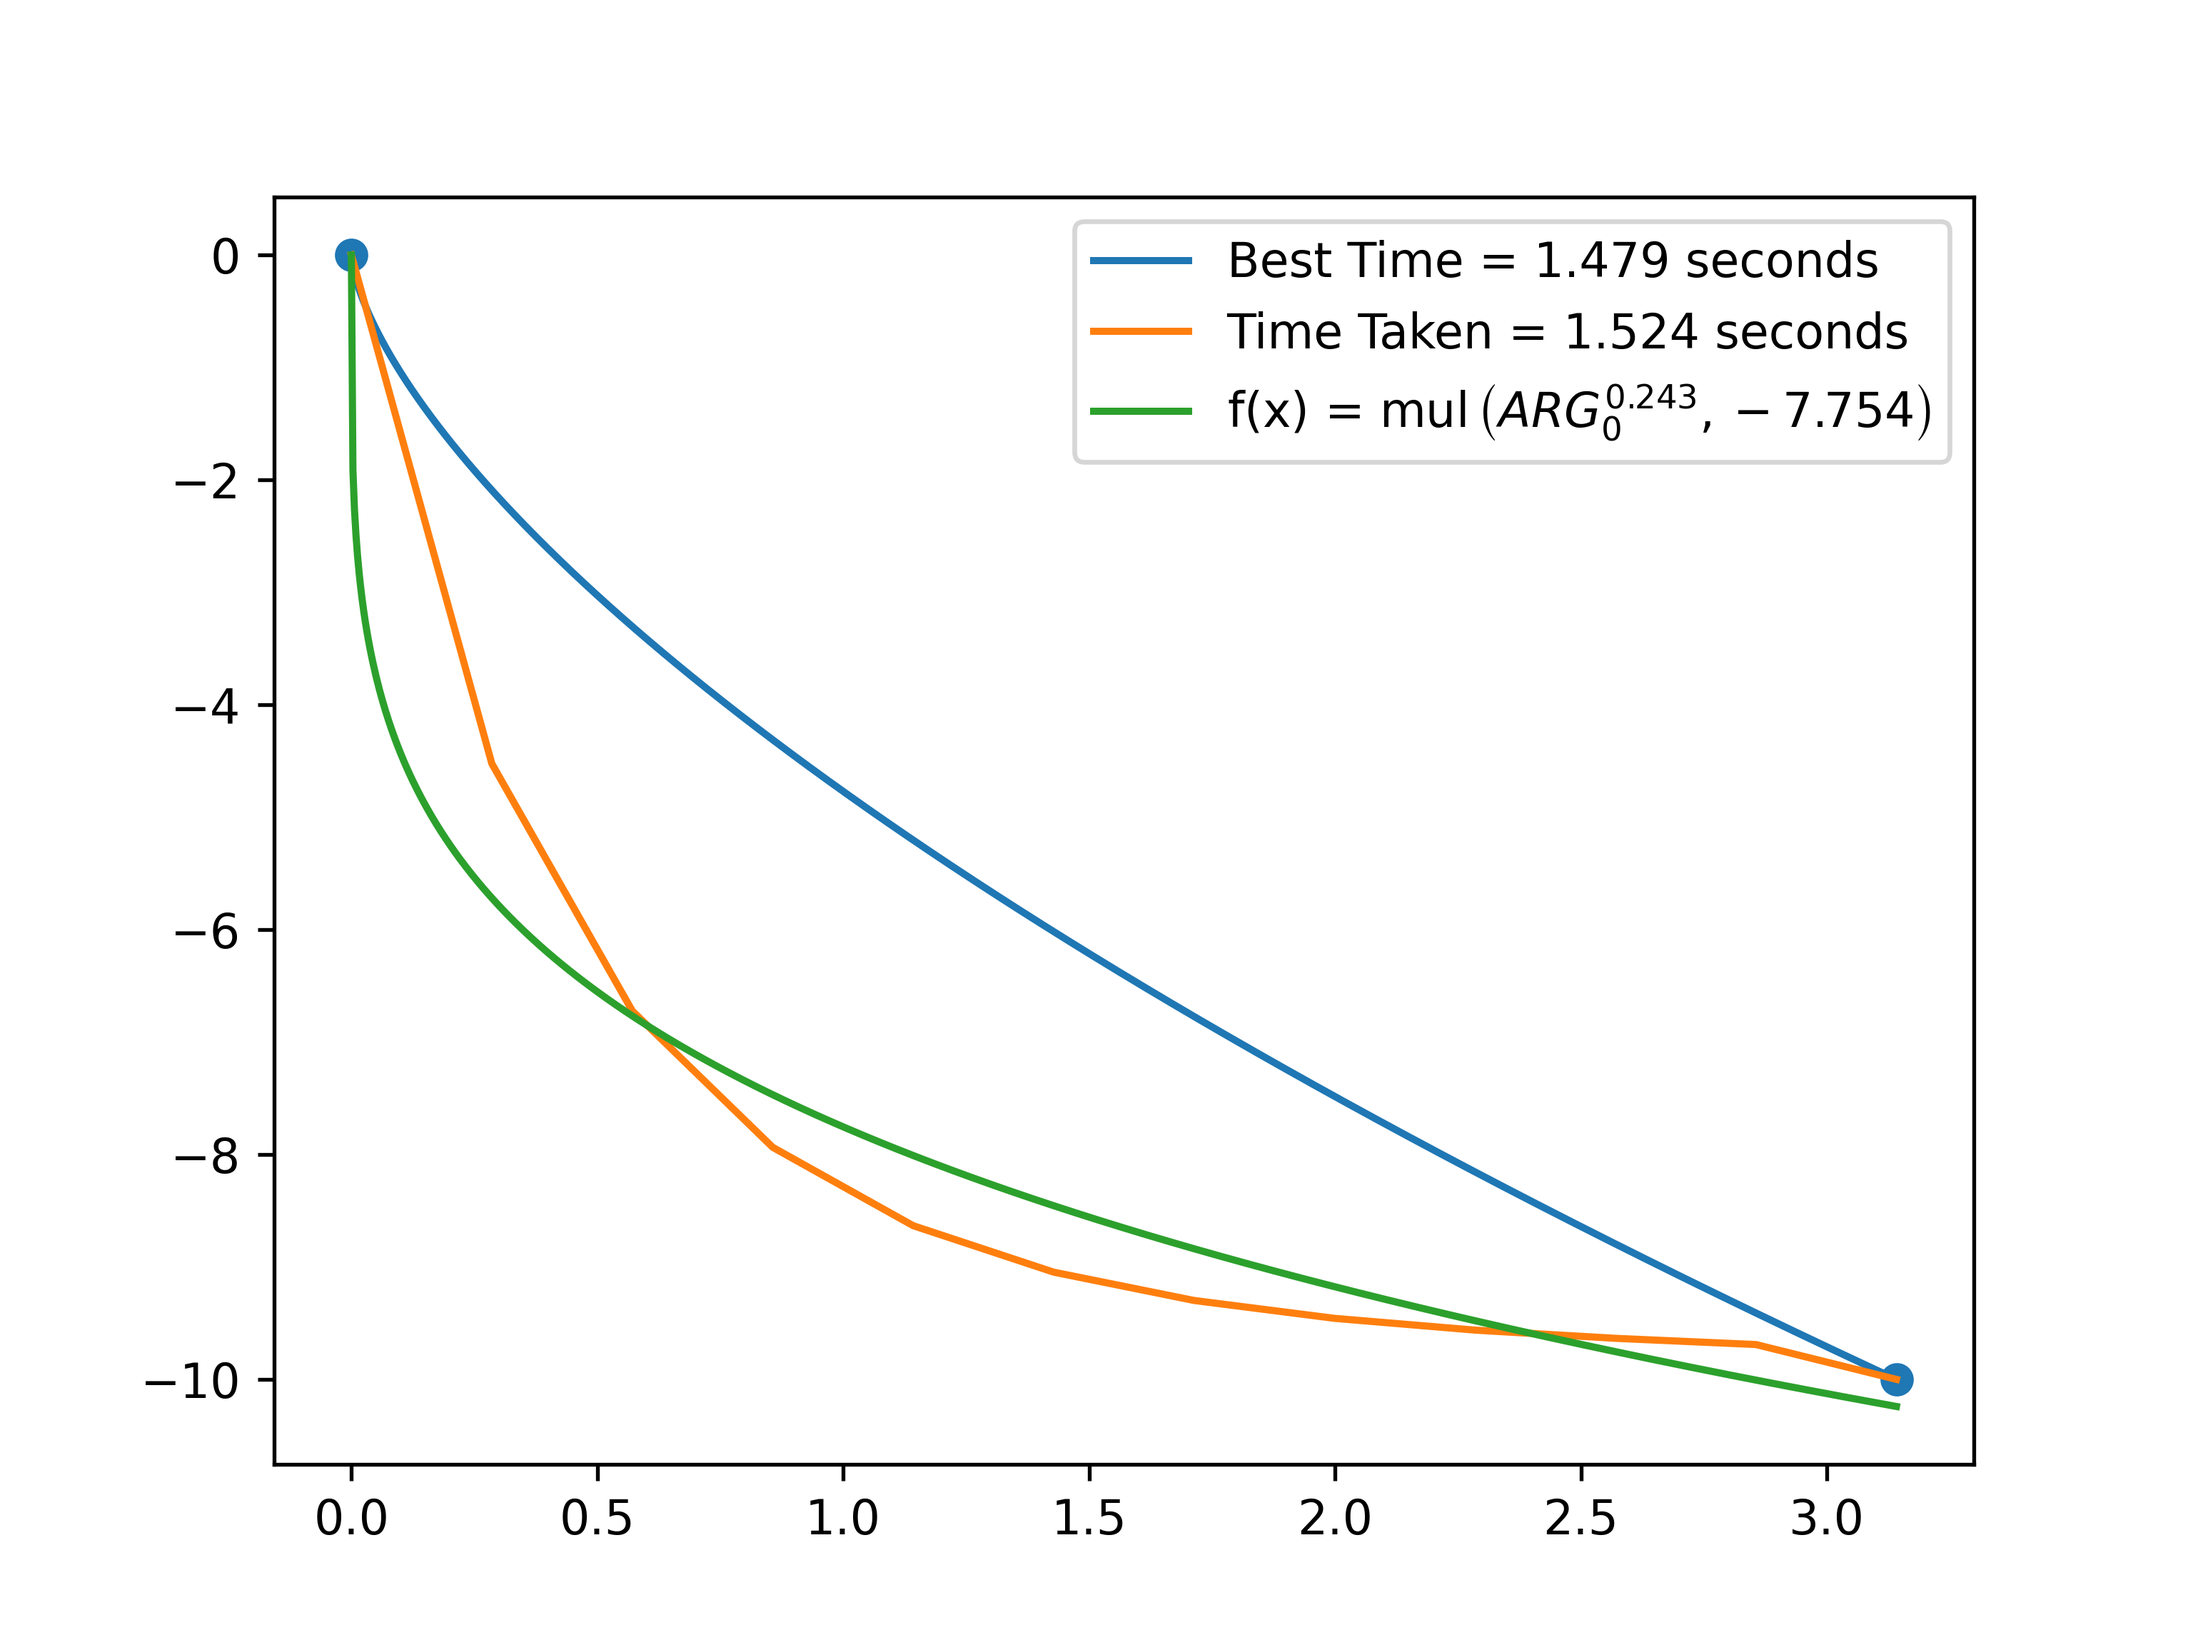
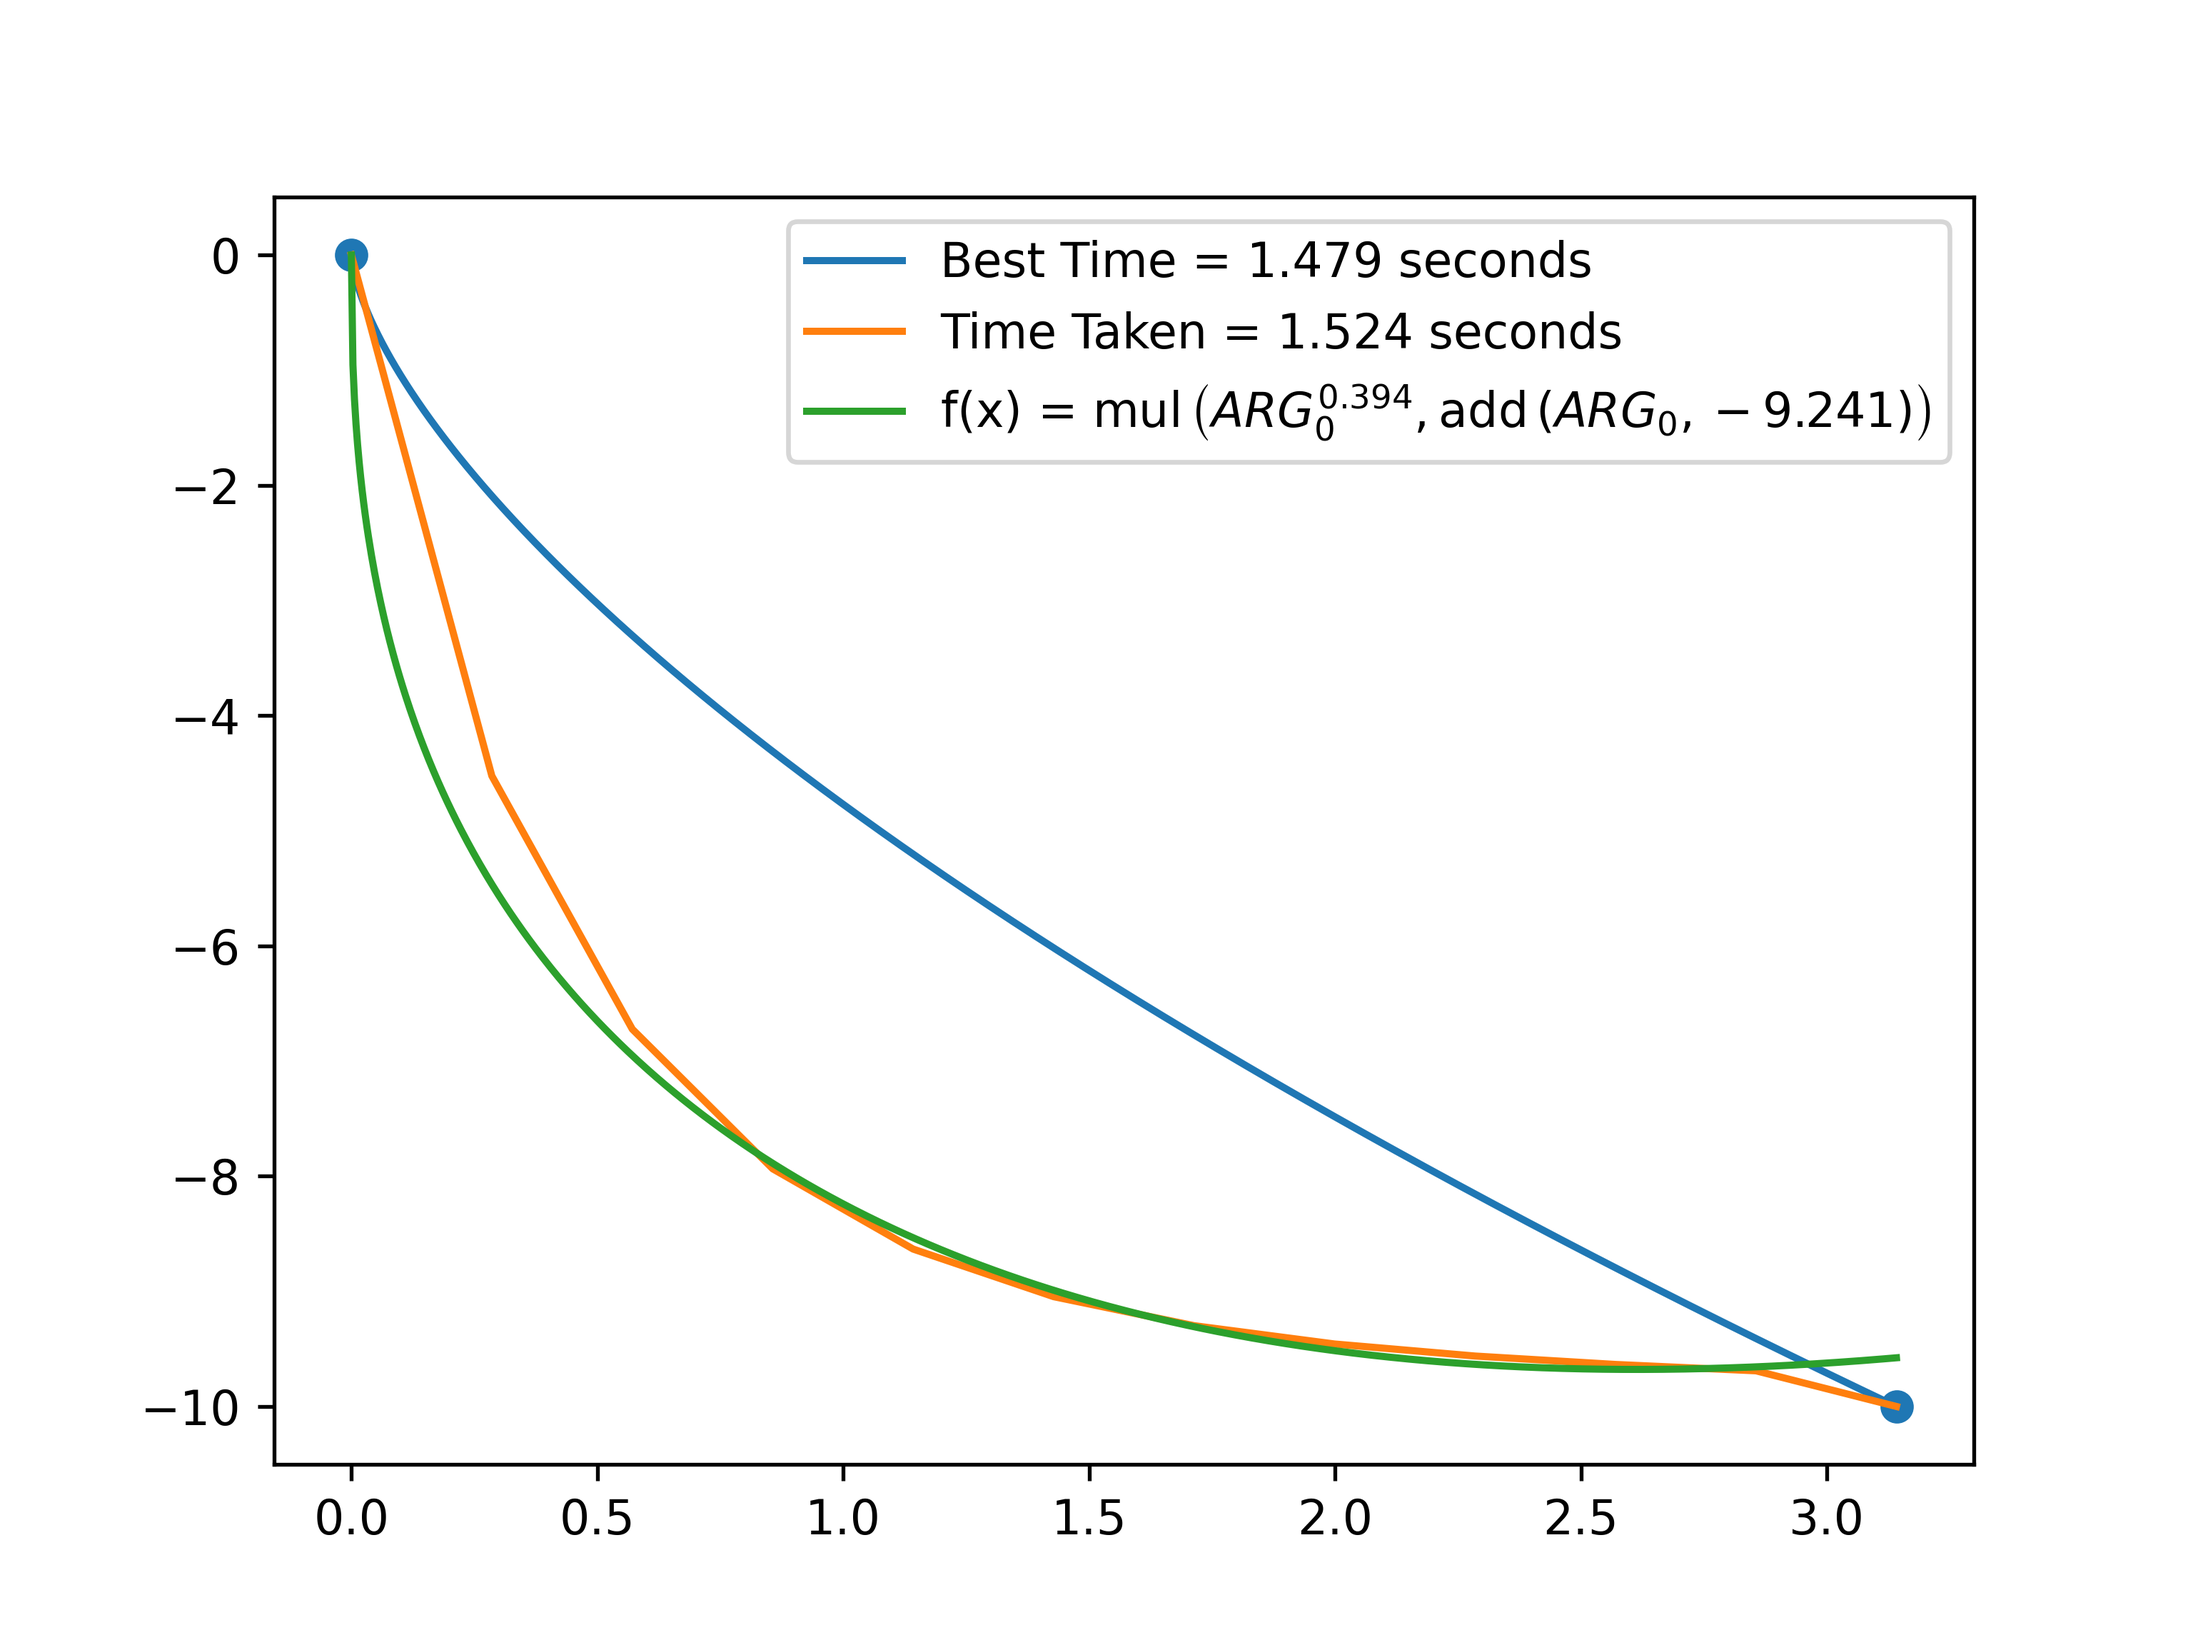
deap new best

diff --git a/RL_Brachistochrone_deap.py b/RL_Brachistochrone_deap.py
@@ -706,12 +706,6 @@ if __name__ == '__main__':
     # Define fitness function (minimize the loss)
     creator.create("FitnessMin", base.Fitness, weights=(-1.0,))
     creator.create("Individual", gp.PrimitiveTree, fitness=creator.FitnessMin)
-    
-    def evaluate_individual(individual, X, y):
-        func = gp.compile(individual, pset)
-        y_pred = np.array([func(x) for x in X])
-        loss = custom_loss(y_pred, y)
-        return loss,
         
     toolbox = base.Toolbox()
     toolbox.register("expr", gp.genHalfAndHalf, pset=pset, min_=1, max_=3)
@@ -724,6 +718,12 @@ if __name__ == '__main__':
     toolbox.register("select", tools.selDoubleTournament, fitness_size=2, parsimony_size=1.4, fitness_first=True)
 #    toolbox.register("select", tools.selStochasticTournament, tournsize=3, prob = [1/3, 1/3, 1/3])
 #    toolbox.register("select", tools.selSPEA2)
+    def evaluate_individual(individual, X, y):
+        func = gp.compile(individual, pset)
+        y_pred = np.array([func(x) for x in X])
+        loss = custom_loss(y_pred, y)
+        return loss,
+
     toolbox.register("evaluate", evaluate_individual, X=X, y=y)
     
     def feasible(individual):
@@ -745,7 +745,7 @@ if __name__ == '__main__':
 #    https://deap.readthedocs.io/en/master/tutorials/advanced/constraints.html
     toolbox.decorate("evaluate", tools.DeltaPenalty(feasible, np.inf, distance))
     
-    pop = toolbox.population(n=10)
+    pop = toolbox.population(n=100)
     best_loss = np.inf
     best_individual = None
     best_func = None
@@ -757,7 +757,7 @@ if __name__ == '__main__':
             algorithms.eaSimple(pop, toolbox, cxpb=0.2, mutpb=0.5, ngen=1, stats=None, verbose = False, halloffame=tools.ParetoFront())
             
 #            algorithms.eaMuCommaLambda(pop, toolbox, mu=50, lambda_=100, cxpb=0.2, mutpb=0.5, ngen=1, stats=None, halloffame=tools.ParetoFront(), verbose=False)
-            
+                        
             # Calculate the loss value of the best individual
             individual = tools.selBest(pop, k=1)[0]
     
